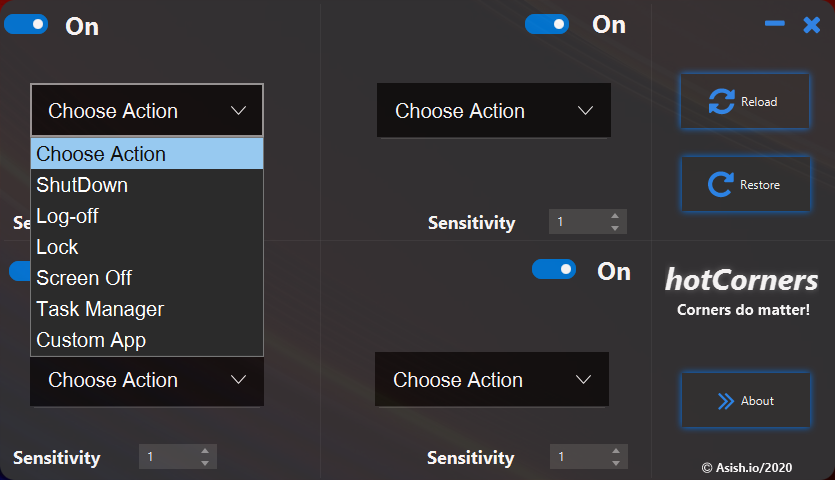
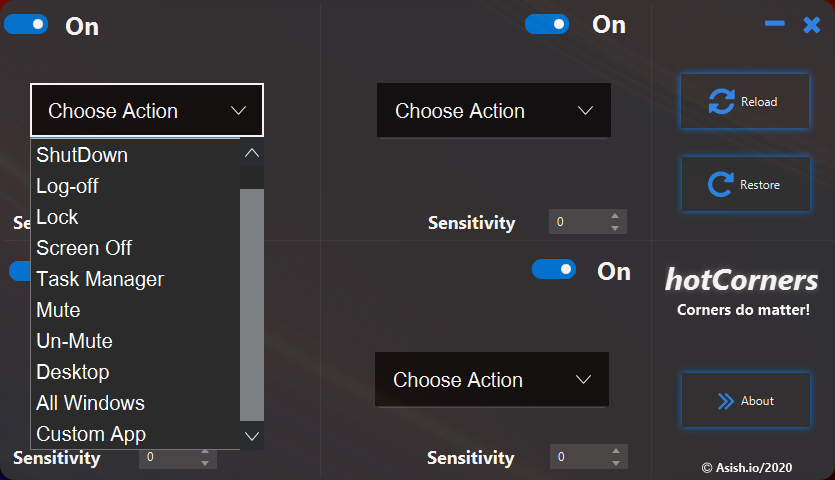
V1.2.0

diff --git a/README.md b/README.md
@@ -54,16 +54,17 @@
 ## Know Problems❌
 - Dosen't work with multiple monitor setup.
 - Tested only on the latest Build of ```Windows 10 Build 18362```.
-- Some events like ```screen off``` wont run without user  permission.
 - Some events do not work on older builds of ```Windows 10 ```.
 ## Work In Progress🚧 
 - Working on **Code optimization**.
-- Adding more events
+- Adding more events ```4 events added in update V1.2.0```
 - UI Changes/Fix
+
 ## How To Contribute🤝 
 - Yes,it is open source you can clone and change code to your need.
 - Most of the code is self explanatory, anyhow
-- for any clarification on code or want to contribute contact vashish888@gmail.com 
+- for any clarification on code or want to contribute contact vashish888@gmail.com / [twitter]
 
+[twitter]: <https://twitter.com/vashish888>
 [OpenJFX]: <https://openjfx.io/>
 [jMetro]:<https://pixelduke.com/java-javafx-theme-jmetro/>
